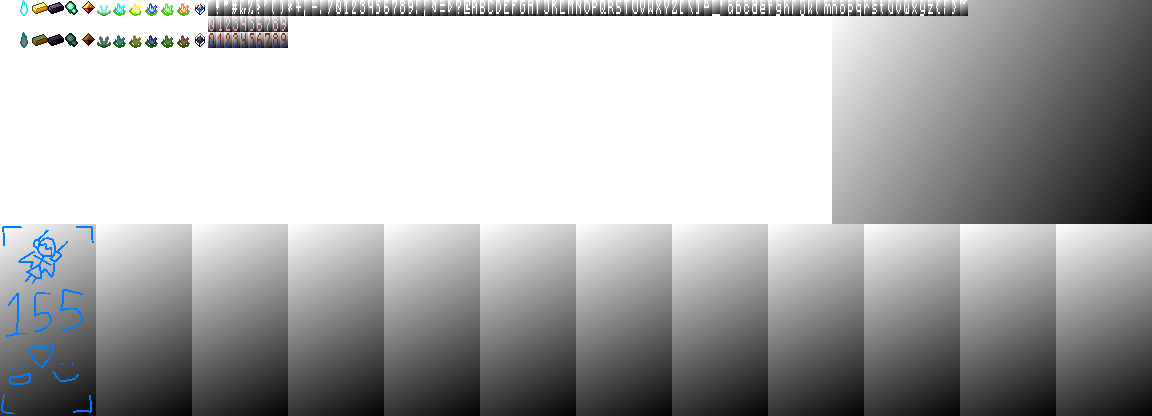
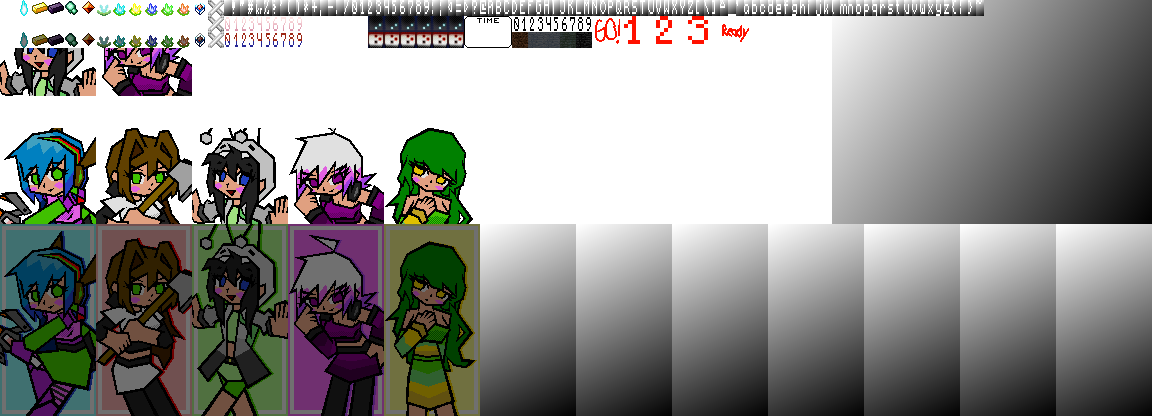
framework falling apart
may the fade transitions not bloat the system :pray:

Changed region(s): [[0.0, 0.3125, 0.4375, 1.0], [0.0, 0.0, 0.875, 0.25]]

diff --git a/scripts/functions.js b/scripts/functions.js
@@ -4,23 +4,41 @@ function game00(){
         initializeStartingField();
         initializeNextRow();
     };
-    ctx.clearRect(0,0,320,224)
-    advanceTick();
     processInput();
-    matchTiles();
-    matchTiles();
-    doDyingAnimation();
-    doGravity();
+    if(gameStart){
+        if(isPaused){
+        }else{
+            advanceTick();
+            matchTiles();
+            matchTiles();
+            doDyingAnimation();
+            doGravity();
+        };
+    };
+    displayGameBG();
     displayField();
     displayTiles();
     displayNextRow();
     doMovementAnimation();
     displayCursor();
+    displayFrame();
+    displayTimer();
+    if(!gameStart){
+        beginCountdown();
+    };
+    if(gameOver){
+        /*gameEnd();*/
+    };
 };
 function initializePlayerData(p){
     playerLoaded=true;
+    coords=[[3,15,0,0],[3,15,0,0]];
+    countdown=4;
+    gameStart=false;
+    price=1;
     playerField=[];
-    frieldScrollTimer=30;
+    fieldScrollSpeed=15;
+    frieldScrollTimer=15;
     scrollOffset=0;
     nextRow=[];
     score=[];
@@ -31,6 +49,7 @@ function initializePlayerData(p){
     gauge=[];
     mult=[];
     ice=[];
+    winner=[];
     if(p==0){
         fieldPos=112;
     }else{
@@ -56,13 +75,31 @@ function initializePlayerData(p){
         scrollOffset=0;
         nextRow[c]=[];
         score[c]=0;
-        essence[c]=0;
-        combo[c]=0;
+        essence[c]=/*100*/9999999999;
+        combo[c]=1;
         gauge[c]=0;
         mult[c]=0;
         ice[c]=0;
+        winner[c]=true;
     };
     tilesAvailable=3;
+    /*essence=[2,1]*/
+};
+function beginCountdown(){
+    if(countdown<30){
+        drawSprite(720,16,144,128,32,32);
+    }else if(countdown<60){
+        drawSprite(688,16,144,128,32,32);
+    }else if(countdown<90){
+        drawSprite(656,16,144,128,32,32);
+    }else if(countdown<120){
+        drawSprite(624,16,144,128,32,32);
+    }else if(countdown<150){
+        drawSprite(592,16,144,128,32,32);
+    }else if(countdown<180){
+        gameStart=true;
+    };
+    countdown++;
 };
 function initializeStartingField(){
     for(let c=0;c<playerField.length;c++){
@@ -121,11 +158,35 @@ function pushNewRow(){
 };
 function advanceTick(){
     tick++;
-    if(tick>=30){time++;};
+    if(tick>=30){
+        tick=0;
+        time++;
+        if(time>19){
+            switch(time){
+                case 20:fieldScrollSpeed=10;break;
+                case 40:fieldScrollSpeed=8;tilesAvailable=4;break;
+                case 80:fieldScrollSpeed=6;price=2;break;
+                case 160:fieldScrollSpeed=4;tilesAvailable=5;break;
+                case 250:fieldScrollSpeed=3;price=3;break;
+                case 400:fieldScrollSpeed=2;break;
+                case 800:fieldScrollSpeed=1;break;
+            };
+        };
+    };
     fieldScrollTimer--;
     if(fieldScrollTimer<=0){
         fieldScrollTimer=fieldScrollSpeed;
         scrollOffset++;
+        if(!gameOver){
+            for(let c=0;c<playerField.length;c++){
+                essence[c]-=Math.round(price*(1+(time/100)));
+                if(essence[c]<=0){
+                    essence[c]=0;
+                    gameOver=true;
+                    winner[c]=false;
+                };
+            };
+        };
         if(scrollOffset>=16){
             scrollOffset=0;
             pushNewRow();
@@ -134,6 +195,20 @@ function advanceTick(){
                 if(coords[c][1]>9){coords[c][1]--;};
             };
         };
+    };
+    for(let c=0;c<playerField.length;c++){
+        if(gauge[c]>1){
+            gauge[c]--;
+            if(gauge[c]==1){
+                gauge[c]=0;
+                combo[c]=1;
+            };
+        };
+    };
+};
+function gameEnd(){
+    for(let c=0;c<playerField.length;c++){
+        drawSprite((player[c]*96),224,fieldPos+(176*c),16,96,192);
     };
 };
 function displayField(){
@@ -168,7 +243,7 @@ function displayCursor(){
             for(let x=0;x<2;x++){
                 if(x==1&&coords[c][0]==6){
                 }else{
-                    drawSprite(288+pulsate()+(x*16),16+(y*16),(x*16)+(coords[c][0]*16)-16+fieldPos+(176*c),(y*16)+(coords[c][1]*16)-144-scrollOffset+16,16,16);
+                    drawSprite(304+pulsate()+(x*16),16+(y*16),(x*16)+(coords[c][0]*16)-16+fieldPos+(176*c),(y*16)+(coords[c][1]*16)-144-scrollOffset+16,16,16);
                 };
             };
         };
@@ -180,6 +255,45 @@ function displayCursor(){
     function tick(){
         cursorPulsate++;
         if(cursorPulsate>15){cursorPulsate=0;};
+    };
+};
+function displayFrame(){
+    for(let c=0;c<playerField.length;c++){
+        for(let y=0;y<15;y++){
+            for(let x=0;x<2;x++){
+                drawSprite(208+(x*8),0,(x*104)+fieldPos+(176*c)-8,(y*16)-scrollOffset,8,16);
+            };
+        };
+        for(let y=0;y<2;y++){
+            drawSprite(368,16+(y*16),fieldPos+(176*c),y*208,96,16);
+            y==0?drawEssence(c):drawScore(c);
+        };
+    };
+    function drawEssence(c){
+        let n="000000000000".slice(essence[c].toString().length)+essence[c].toString();
+        for(let x=0;x<12;x++){
+            drawSprite(224+((n.charCodeAt(x)-48)*8),16,fieldPos+(176*c)+(x*8),0,8,16);
+        };
+    };
+    function drawScore(c){
+        let n="000000000000".slice(score[c].toString().length)+score[c].toString();
+        for(let x=0;x<12;x++){
+            drawSprite(224+((n.charCodeAt(x)-48)*8),32,fieldPos+(176*c)+(x*8),208,8,16);
+        };
+    };
+};
+function displayGameBG(){
+    for(let y=0;y<15;y++){
+        for(let x=0;x<20;x++){
+            drawSprite(512,32,(x*16),(y*16)-scrollOffset,16,16);
+        };
+    };
+};
+function displayTimer(){
+    let n="0000".slice(time.toString().length)+time.toString();
+    drawSprite(464,16,136,88,48,32);
+    for(let x=0;x<4;x++){
+        drawSprite(512+((n.charCodeAt(x)-48)*8),16,144+(x*8),96,8,16);
     };
 };
 function moveCursor(c,x,y){
@@ -260,15 +374,17 @@ function matchTiles(){
         if(i>2){
             for(let m=0;m<i+1;m++){
                 if(playerField[c][y][x+m][0]==6){
-                    playerField[c][y][x+m][0]=playerField[c][y][x+m-1][1]+6;
+                    playerField[c][y][x+m][0]=playerField[c][y][x][1]+6;
                 };
                 playerField[c][y][x+m][2]=45;
             };
+            gauge[c]=60;
+            combo[c]++;
         };
     };
     function verticalScan(c,x,y,id){
         let i=0;
-                while(true){
+        while(true){
             if((playerField[c][y+i+1][x][0]==id||playerField[c][y+i+1][x][0]==6||playerField[c][y+i+1][x][0]==(id+6))&&(!isDying(c,x,y+i+1)||playerField[c][y+i+1][x][2]==60)&&!isMoving(c,x,y)){
                 i++;
             }else{
@@ -278,10 +394,12 @@ function matchTiles(){
         if(i>2){
             for(let m=0;m<i+1;m++){
                 if(playerField[c][y+m][x][0]==6){
-                    playerField[c][y+m][x][0]=playerField[c][y+m-1][x][1]+6;
+                    playerField[c][y+m][x][0]=playerField[c][y][x][1]+6;
                 };
                 playerField[c][y+m][x][2]=45;
             };
+            gauge[c]=60;
+            combo[c]++;
         };
     };
 };
@@ -292,6 +410,10 @@ function doDyingAnimation(){
                 if(isDying(c,x,y)){
                     if(playerField[c][y][x][2]==1){
                         if(playerField[c][y][x][0]==playerField[c][y][x][1]){
+                            if(!gameOver){
+                                netScore(c,x,y);
+                                netEssence(c,x,y);
+                            };
                             playerField[c][y][x]=[0,0,0,0];
                         }else{
                             playerField[c][y][x][1]=playerField[c][y][x][0]
@@ -303,6 +425,28 @@ function doDyingAnimation(){
                 };
             };
         };
+    };
+    function netScore(c,x,y){
+        let points=0;
+        if(playerField[c][y][x][0]>6){
+            points=1000;
+        }else if(playerField[c][y][x][0]==6){
+            points=100;
+        }else{
+            points=10;
+        };
+        score[c]+=points*combo[c];
+    };
+    function netEssence(c,x,y){
+        let points=0;
+        if(playerField[c][y][x][0]>6){
+            points=10;
+        }else if(playerField[c][y][x][0]==6){
+            points=5;
+        }else{
+            points=1;
+        };
+        essence[c]+=points*combo[c];
     };
 };
 function doGravity(){

diff --git a/scripts/inputs.js b/scripts/inputs.js
@@ -21,14 +21,14 @@ function processInput(){
                             for(let p=0;p<players;p++){
                                 for(let q=0;q<inputQueue.length;q++){
                                     switch(inputQueue[q]){
-                                        case controller[p][0]:moveCursor(p,0,-1);break;
-                                        case controller[p][1]:moveCursor(p,0,1);break;
-                                        case controller[p][2]:moveCursor(p,-1,0);break;
-                                        case controller[p][3]:moveCursor(p,1,0);break;
+                                        case controller[p][0]:if(!isPaused&&!gameOver){moveCursor(p,0,-1);}else{  };break;
+                                        case controller[p][1]:if(!isPaused&&!gameOver){moveCursor(p,0,1);}else{  };break;
+                                        case controller[p][2]:if(!isPaused&&!gameOver){moveCursor(p,-1,0);}else{  };break;
+                                        case controller[p][3]:if(!isPaused&&!gameOver){moveCursor(p,1,0);}else{  };break;
                                         case controller[p][4]:break;
-                                        case controller[p][5]:moveTile(p,0,1);break;
-                                        case controller[p][6]:moveTile(p,1,0);break;
-                                        case controller[p][7]:  break;
+                                        case controller[p][5]:if(gameStart&&!gameOver&&!isPaused){moveTile(p,0,1);}else{  };break;
+                                        case controller[p][6]:if(gameStart&&!gameOver&&!isPaused){moveTile(p,1,0);}else{  };break;
+                                        case controller[p][7]:if(gameStart&&!gameOver){isPaused=!isPaused};break;
                                     };
                                 };
                             };

diff --git a/scripts/variables.js b/scripts/variables.js
@@ -1,5 +1,5 @@
 let controller=[['W','S','A','D','4','5','6','ENTER'],['I','K','J','L','7','8','9',' ']];let players=2;let inputQueue=[];
-let graphicsLoaded=false;let titleScreen=false;let mainMenu=false;let pastMenu=true;let menuA=0;let menuB=0;let player=[0,0];let coords=[[1,9,0,0],[1,9,0,0]];
+let graphicsLoaded=false;let titleScreen=false;let mainMenu=false;let pastMenu=true;let menuA=0;let menuB=0;let player=[0,1];let coords=[[1,9,0,0],[1,9,0,0]];
 let playerLoaded=false;let playerField=[];let nextRow=[];let fieldPos=0;let fieldScrollSpeed=10;let fieldScrollTimer=0;let scrollOffset=0;let forceScroll=false;
-let score=[];let essence=[];let time=0;let tick=[];let combo=[];let gauge=[];let mult=[];let price=0;let ice=[];
-let cursor=[];let cursorPulsate=0;let tilesAvailable=3;
+let score=[];let essence=[];let time=0;let tick=[];let combo=[];let gauge=[];let mult=[];let price=1;let ice=[];
+let cursor=[];let cursorPulsate=0;let tilesAvailable=3;let isPaused=false;let winner=[];let countdown=0;let gameStart=false;let gameOver=false;

diff --git a/scripts/cavnas.js b/scripts/cavnas.js
@@ -1,7 +1,7 @@
 const canvas=document.getElementById("canvas");
 const ctx=canvas.getContext("2d");
 const texture=document.getElementById("textures");
-const graphics=new Image(); graphics.src="./atlas.png";
+const graphics=new Image();graphics.src="./atlas.png";
 const instance=setInterval(frameStart,(1000/30));
 function drawSprite(gx,gy,x,y,w,h){
     ctx.drawImage(graphics,gx,gy,w,h,x,y,w,h);
